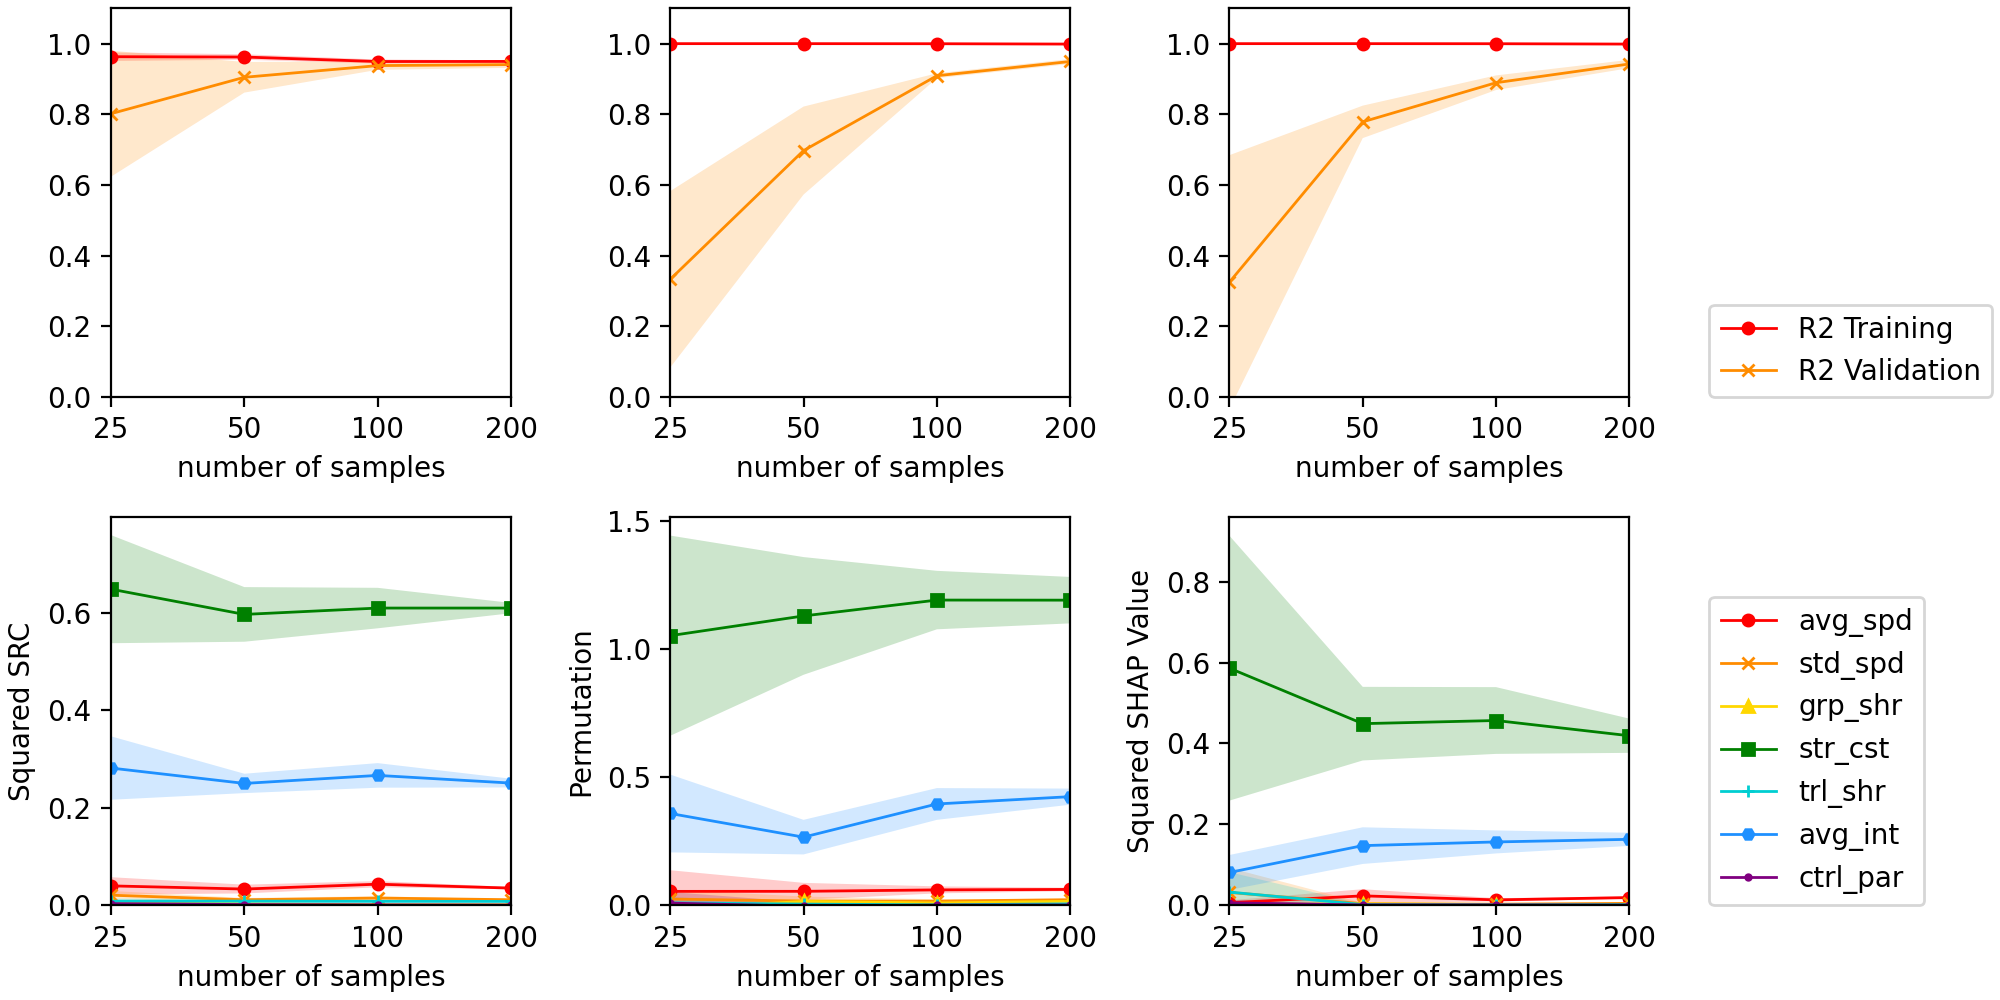
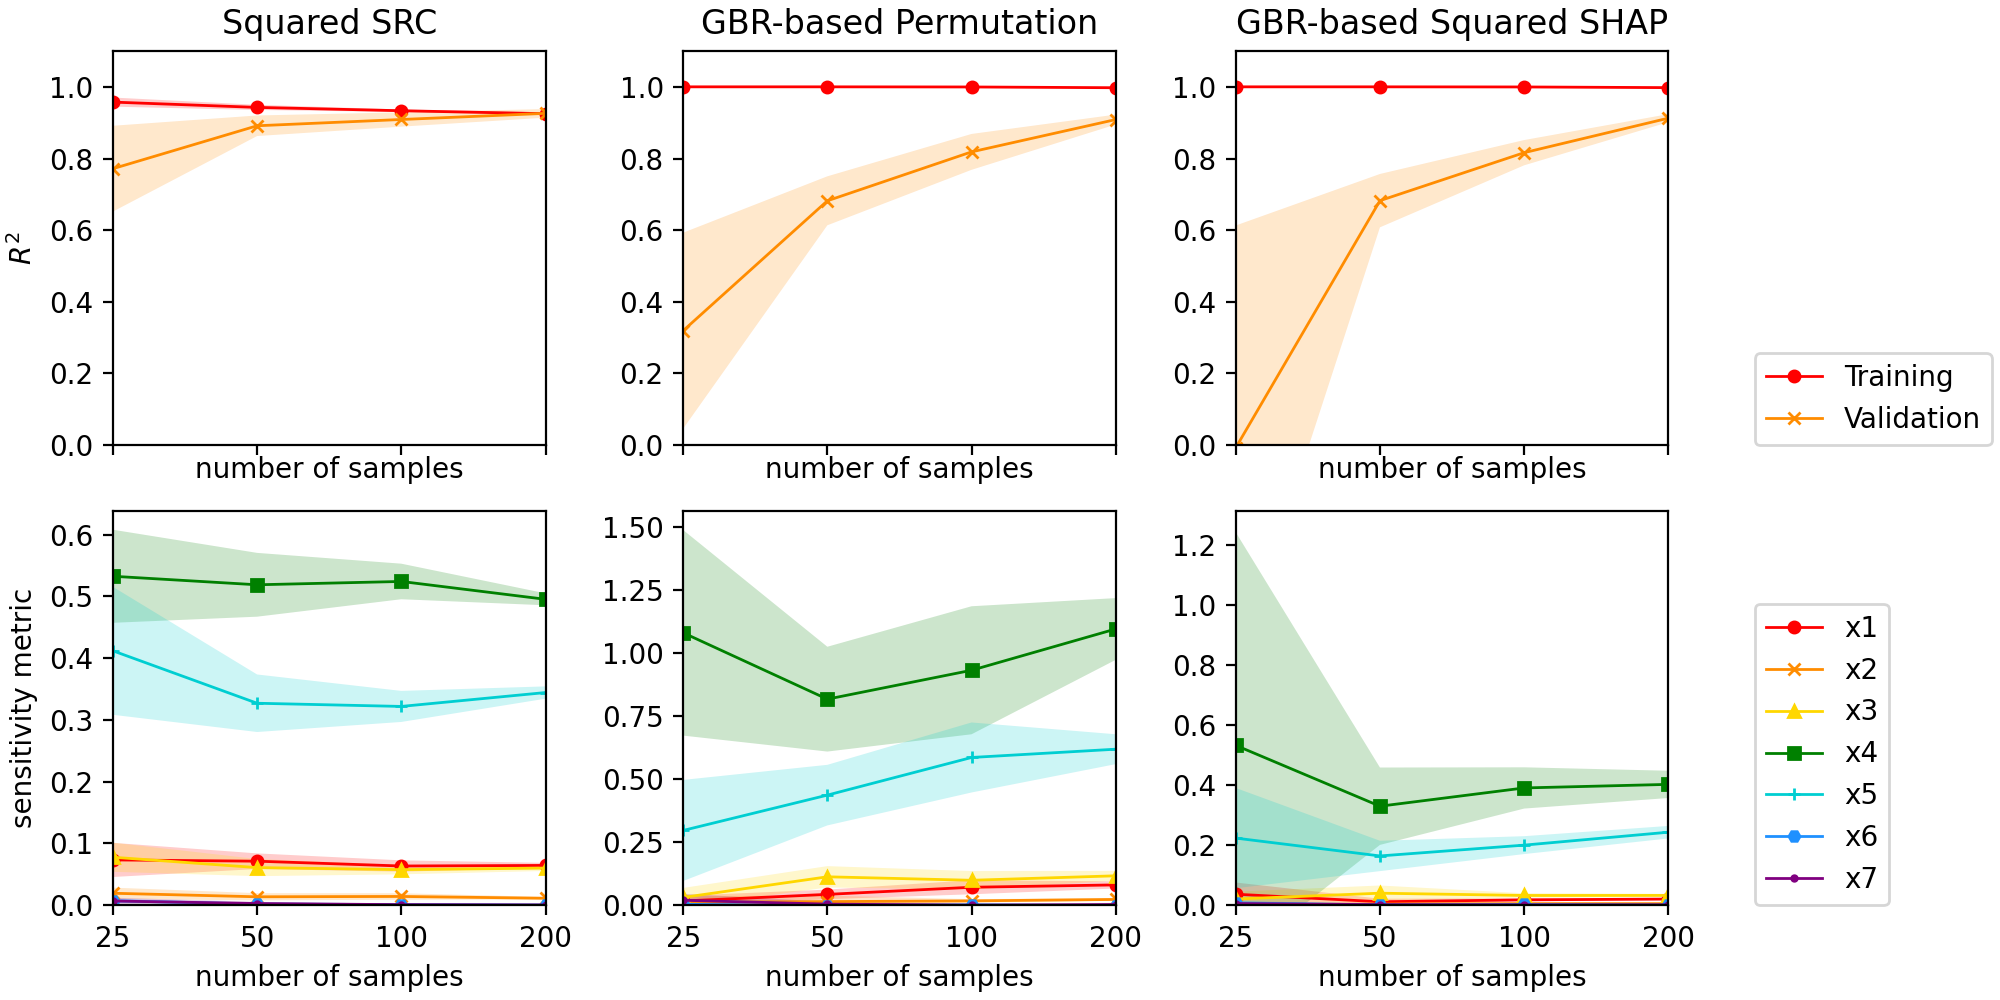
Refine visualizations and add demo

Changed region(s): [[0.0, 0.0, 0.837, 0.992], [0.868, 0.589, 0.961, 0.899], [0.868, 0.31, 1.0, 0.465]]

diff --git a/demo.py b/demo.py
@@ -1,0 +1,43 @@
+from Sensitivity import SRC, Permutation, Shap
+import matplotlib.pyplot as plt
+from sklearn.linear_model import LinearRegression
+from sklearn.ensemble import GradientBoostingRegressor
+
+if __name__ == '__main__':
+    grid_dict = {
+        'bottom': 0.32,
+        'left': 0.085,
+        'right': 0.98,
+        'top': 0.87,
+        'wspace': 0.15,
+    }
+    fig, ax = plt.subplots(nrows=2, ncols=3, constrained_layout=True, figsize=(10, 5),
+                           sharex='col')
+
+    param = {
+        'file_path': 'example.csv',
+        'y_label': 'y1',
+        'x_labels': ['x1', 'x2', 'x3', 'x4', 'x5', 'x6', 'x7'],
+        'sample_num_list': [25, 50, 100, 200],
+    }
+
+    print('run SRC')
+    SRC(**{**param, 'model': LinearRegression()}).run(ax[1][0], ax[0][0])
+    ax[0][0].set_ylim([0, 1.1])
+    ax[0][0].set_title('Squared SRC')
+
+    print('run Permutation')
+    Permutation(**{**param, 'model': GradientBoostingRegressor()}).run(ax[1][1], ax[0][1])
+    ax[0][1].set_ylim([0, 1.1])
+    ax[0][1].set_title('GBR-based Permutation')
+
+    print('run SHAP')
+    Shap(**{**param, 'model': GradientBoostingRegressor()}).run(ax[1][2], ax[0][2])
+    ax[1][2].legend(loc=(1.2, 0))
+    ax[0][2].set_ylim([0, 1.1])
+    ax[0][2].set_title('GBR-based Squared SHAP')
+    ax[0][2].legend(loc=(1.2, 0))
+    ax[0][0].set_ylabel('$R^2$')
+    ax[1][0].set_ylabel('sensitivity metric')
+
+    plt.savefig('Indices Compare.png', dpi=200)

diff --git a/Sensitivity/IndicesBySampleNum.py b/Sensitivity/IndicesBySampleNum.py
@@ -57,7 +57,7 @@ class IndicesBySampleNum:
         # r2_train
         y = mean_r2[:, -2]
         axe_r2.plot(x, y, color=self.input_colors[0], linestyle='-', linewidth=1,
-                    label='R2 Training', marker=self.input_markers[0], markersize=4, )
+                    label='Training', marker=self.input_markers[0], markersize=4, )
         y1s = bottom_r2[:, -2]
         y2s = upper_r2[:, -2]
         axe_r2.fill_between(x=x, y1=y1s, y2=y2s,
@@ -66,7 +66,7 @@ class IndicesBySampleNum:
         # r2_validation
         y = mean_r2[:, -1]
         axe_r2.plot(x, y, color=self.input_colors[1], linestyle='-', linewidth=1,
-                    label='R2 Validation', marker=self.input_markers[1], markersize=4, )
+                    label='Validation', marker=self.input_markers[1], markersize=4, )
         y1s = bottom_r2[:, -1]
         y2s = upper_r2[:, -1]
         axe_r2.fill_between(x=x, y1=y1s, y2=y2s,
@@ -77,7 +77,6 @@ class IndicesBySampleNum:
         axe.set_xticks(x)
         axe.set_xticklabels(self.sample_num_list)
         axe.set_xlabel('number of samples')
-        axe.set_ylabel(self.label_y_axis)
 
         axe_r2.set_xlim([math.log(self.sample_num_list[0]), math.log(self.sample_num_list[-1])])
         axe_r2.set_ylim([0, None])
